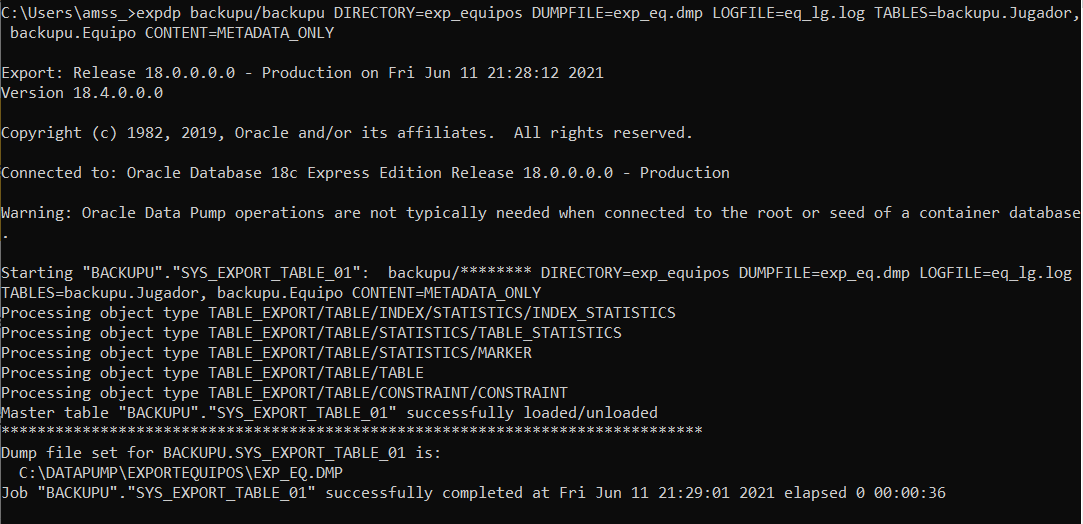
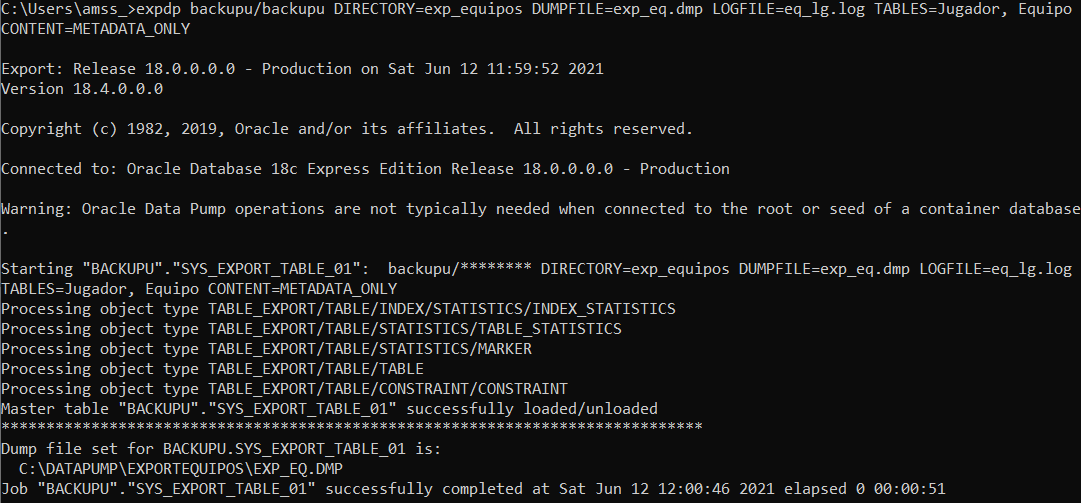
export/import

diff --git a/README.md b/README.md
@@ -18,6 +18,8 @@ Asunción Mariana Sic Sor **_201504051_**
         * [Base de Datos de Equipos](#equipos)
         * [Base de Datos de Jornadas](#jornadas)
     * [Importar](#importar)
+        * [Importar Equipos](#importar-equipos)
+        * [Importar Jornadas](#importar-jornadas)
 * [Referencias](#referencias)
 
 # Permisos y Autenticación
@@ -315,7 +317,7 @@ GRANT  DATAPUMP_EXP_FULL_DATABASE  TO  backupu;
 Finalmente, se corre el siguiente comando
 
 ```zsh
-expdp backupu/backupu DIRECTORY=exp_equipos DUMPFILE=exp_eq.dmp LOGFILE=eq_lg.log TABLES=backupu.Jugador, backupu.Equipo CONTENT=METADATA_ONLY
+expdp backupu/backupu DIRECTORY=exp_equipos DUMPFILE=exp_eq.dmp LOGFILE=eq_lg.log TABLES=Jugador, Equipo CONTENT=METADATA_ONLY
 ```
 
 ![](img/res_eq.PNG)
@@ -326,13 +328,45 @@ Y ya en el directorio anterior aparece los archivos
 
 ### JORNADAS
 
+Crear un directorio para el respaldo de las jornadas, el cuál será ```C:\DataPump\ExportJornadas``` 
+
+![](img/carpeta2.PNG)
+
+Seguido se crea el directorio en Oracle
+
+```sql
+CREATE DIRECTORY exp_jornadas AS 'C:\DataPump\ExportJornadas';
+```
+
+![](img/dir_jor.PNG)
+
+Por último, se ejecuta el comando 
+
+```zsh
+expdp backupu/backupu DIRECTORY=exp_jornadas DUMPFILE=exp_jo.dmp LOGFILE=jo_lg.log TABLES=Liga, Jornada CONTENT=ALL
+```
+
+![](img/res_jo.PNG)
+
+Y ya en la carpeta se encuentran los archivos correspondientes
+
+![](img/car_jo.PNG)
+
 ## Importar
 
 ### Importar Equipos
 
 ```zsh
-impdp impeq/impeq DIRECTORY=exp_equipos DUMPFILE=exp_eq.dmp LOGFILE=eq_lg.log full=y
+impdp backupu/backupu DIRECTORY=exp_equipos DUMPFILE=exp_eq.dmp LOGFILE=eq_lg.log full=y TABLE_EXISTS_ACTION=REPLACE
 ```
+![](img/imp_eq.PNG)
+
+### Importar Jornadas
+
+```zsh
+impdp backupu/backupu DIRECTORY=exp_jornadas DUMPFILE=exp_jo.dmp LOGFILE=jo_lg.log full=y TABLE_EXISTS_ACTION=REPLACE
+```
+![](img/imp_jo.PNG)
 
 # Referencias
 ## 1 
